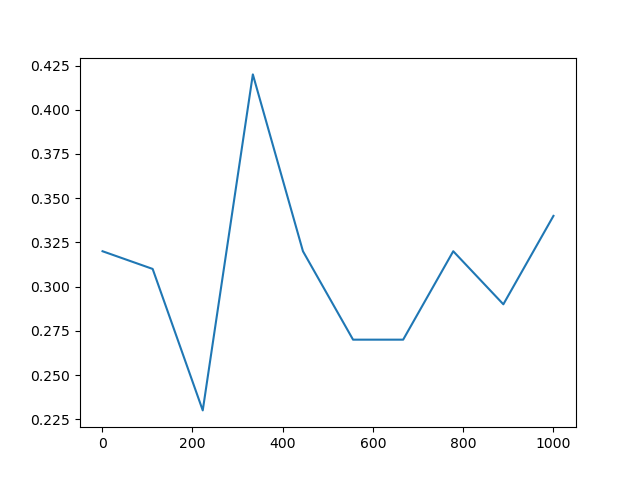
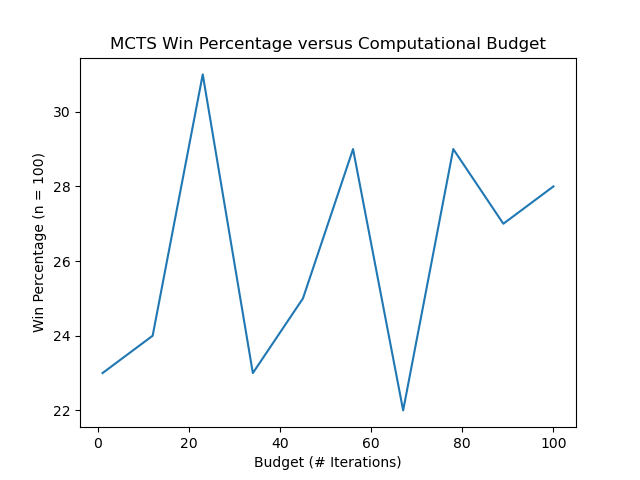
Creating sarsa implementation

diff --git a/SarsaMCTS.py b/SarsaMCTS.py
@@ -1,0 +1,161 @@
+import numpy as np
+# from MCTSNode import MCTSNode
+from SarsaNode import SarsaNode
+from games.Game import Game
+from games.Player import Player
+from collections import deque
+from policies.Policy import Policy
+from utils import Outcome
+import random 
+
+"""
+file: SarsaMCTS.py
+Author: Michael D. Nath
+
+SarsaMCTS is a TD-powered variant of the Monte Carlo Tree Seach algorithm.
+In this variant, we leverage the SARSA TD method with eligibility traces.
+The algorithim below is a high-fidelity implementation of Sarsa-UCT(\lambda) 
+as described by Vodopivec et. al. in "On Monte Carlo Tree Search and Reinforcement Learning".
+"""
+
+class SarsaMCTS(Player):
+    def __init__(self, game: Game, mark, opponent_mark, playout_policy: Policy, exploration_constant=1):
+        """
+        Initializes the Sarsa MCTS algorithm with a game for it to play.
+
+        Args:
+        game (Game): The `Game` object that the MCTS agent interfaces with.
+        mark (int): The int representation of the mark the MCTS agent can use to make moves.
+        opponent_mark (int): The int representation of the mark the opponent can use to make moves.
+        playout_policy: (Policy): The policy that the MCTS agent will follow when at a new state.
+        """
+
+        self.game_obj = game
+        init_state = game.get_init_game_state()
+        # We begin with the initial state of the game we're playing
+        self.root = SarsaNode(init_state)
+        self.mark = mark
+        self.discount_factor = 1
+        self.alpha = 0.01
+        self.trace_decay = 1
+        self.opponent_mark = opponent_mark
+        self.playout_policy = playout_policy
+        self.exploration_constant = exploration_constant
+
+        # Maintain an "experience" of previously played game trees. Equivalent to MCTS "learning".
+        self.memory: dict[str: SarsaNode] = dict()
+
+    
+    
+    def ucb1_tree_policy_(self, game_state: SarsaNode) -> np.ndarray:
+        best_a = None
+        best_ucb = -np.inf
+        actions = game_state.game_obj.get_all_next_actions()
+        for a_i in actions:
+           if game_state.children_states.get(a_i, None) != None:
+               child = game_state.children_states[a_i]
+               exploitation_value = child.get_value()
+               exploration_value = self.exploration_constant \
+                   * np.sqrt(2 * np.log(game_state.n_visited) / np.log(child.n_visited))
+               ucb_value = exploitation_value + exploration_value
+               if ucb_value >= best_ucb:
+                   best_ucb = ucb_value
+                   best_a = a_i
+        return best_a
+    
+    def generate_episode_(self, root_state: SarsaNode):
+        episode = []
+        s = root_state
+        while (not self.game_obj.is_terminal_state(s.game_obj)):
+            if self.memory.get(s, None) != None:
+                a = self.ucb1_tree_policy_(s) 
+            else:
+                a = self.playout_policy.select_action(s.game_obj.state)
+            sp = self.game_obj.get_next_game_state(a, self.mark)
+            is_terminal, winner = self.game_obj.is_terminal_state(sp.game_ob)
+            if is_terminal:
+                if winner == self.mark:
+                    r = 1
+                elif winner == self.opponent_mark:
+                    r = -1
+            else:
+                r = 0
+            s = sp
+            episode.append((s, r))
+        
+    
+    def create_children_for_node(self, node: SarsaNode):
+        # get all possible next states
+        possible_next_states, input_actions = \
+        self.game_obj.get_next_game_states(self.mark)
+        node.add_children(possible_next_states, input_actions) 
+    
+    def backpropagate_outcome(self, outcome: Outcome):
+        # for each node in the path from root to non-terminal leaf, update its stored statistics.
+        for node in self.path:
+            node.update_stats(outcome) 
+    
+    def step(self):
+        '''
+        This is equivalent to a human player `thinking` about what move to make,
+        given their opponent's most recent move. Here, the core assumption is that
+        this is called right after an opponent has made a move. 
+        '''
+       
+        # Edge case: if current game state is already deciding, no point in planning.
+        if self.game_obj.is_terminal_state(self.game_obj)[0]:
+            return 
+        
+        # We begin planning by examining the current state of the game. 
+        stringified_current_game_state = np.array2string(self.game_obj.get_current_game_state())
+        self.root = self.memory.get(stringified_current_game_state, None)
+        if self.root is None:
+            self.root = self.memory[stringified_current_game_state] = \
+            SarsaNode(self.game_obj, None, is_opponent=True)
+        episode = self.generate_episode_(self.root)
+        
+        
+        
+        
+        
+        
+        self.perform_lookahead(self.root)
+        # At this point, self.path should be populated with a carve-out of game tree.
+        leaf_node = self.path[-1]
+        # We will construct the next game state from the terminal game state
+        # determine if root is terminal (game state is deciding)
+        is_terminal, winner = self.game_obj.is_terminal_state(leaf_node.game_obj)
+        if is_terminal:
+            return
+        else:
+            self.create_children_for_node(leaf_node)
+            playout_node = self.determine_playout_node(leaf_node)
+            # Include this playout node as an additional target of backpropagation.
+            self.path.append(playout_node)
+            # Now we perform a playout from this playout node, backpropagating after playout completion.
+            outcome = self.perform_playout(playout_node)
+        # Update internal statistics of all nodes in carved out path.
+        self.backpropagate_outcome(outcome)
+    
+    def make_move(self):
+        # Perform a one-step lookahead and greedily choose the move to take.
+        max_value = 0
+        best_child = None
+        for child in self.root.children_states:
+            if (child.get_value() >= max_value):
+                max_value = child.get_value()
+                best_child = child
+        return best_child.input_action
+              
+    def internal_print_game_tree_(self, root: MCTSNode):
+        if self.game_obj.is_terminal_state(root.game_obj)[0]:
+            return
+        print(root)
+        for child in root.children_states:
+            self.internal_print_game_tree_(child)
+        
+    def print_game_tree(self):
+        self.internal_print_game_tree_(self.root)    
+        
+    def __str__(self):
+        return self.root.__str__()

diff --git a/games/tictactoe/TicTacToe.py b/games/tictactoe/TicTacToe.py
@@ -47,22 +47,31 @@ class TicTacToeBoard(Game):
     def get_current_game_state(self) -> np.ndarray:
         return self.board
     
+    def get_next_game_state(self, action, mark):
+        '''
+        Returns the next game state (s') from the current state (s) after taking
+        `action`, and marked with `mark`
+        '''
+        new_state = self.board.copy()
+        new_state[tuple(action)] = mark
+        return TicTacToeBoard(new_state)
+    
     def get_next_game_states(self, mark):
         '''
         Returns all reachable game states from given state, and marked with `mark`
         '''
         pos_next_states = []
-        input_actions = []
-        for i in range(GRID_ROWS):
-            for j in range(GRID_COLS):
-                if self.board[i,j] == NO_MARK_INDICATOR:
-                    new_state = self.board.copy()
-                    new_state[i,j] = mark
-                    new_board_obj = TicTacToeBoard(new_state)
-                    pos_next_states.append(new_board_obj)
-                    input_actions.append([i,j])
+        input_actions = self.get_all_next_actions()
+        for action in input_actions:
+            new_board_obj = self.get_next_game_state(action, mark)
+            pos_next_states.append(new_board_obj)
+            input_actions.append(action)
         return pos_next_states, input_actions
-        
+    
+    def get_all_next_actions(self):
+        pos_indices = np.where(self.board == NO_MARK_INDICATOR)
+        return np.array(list(zip(pos_indices))).reshape(-1, 2)
+     
     @staticmethod
     def is_terminal_state(game_obj: Game): 
         for i in range(GRID_ROWS):

diff --git a/SarsaNode.py b/SarsaNode.py
@@ -3,18 +3,18 @@ import numpy as np
 from utils import Outcome
 from games.Game import Game
 
-class MCTSNode:
+class SarsaNode:
     def __init__(self, game_state: Game, input_action = None, is_opponent=False):
         self.game_obj: Game = game_state
         self.n_won = 0
         self.n_visited = 1
         self.input_action = input_action
         self.is_opponent_turn = is_opponent
-        self.children_states: set[MCTSNode] = set()
+        self.children_states: dict[Tuple[int, int]: SarsaNode]
 
     def add_child(self, game_obj, input_action):
-        new_child = MCTSNode(game_obj, input_action=input_action, is_opponent=(not self.is_opponent_turn))
-        self.children_states.add(new_child)
+        new_child = SarsaNode(game_obj, input_action=input_action, is_opponent=(not self.is_opponent_turn))
+        self.children_states[input_action] = new_child
     
     def add_children(self, game_objs, input_actions):
         for idx, child in enumerate(game_objs):

diff --git a/tests.py b/tests.py
@@ -7,7 +7,7 @@ import matplotlib.pyplot as plt
 
 MCTS_INDICATOR = 1
 OPP_INDICATOR = 0
-N_TRIALS = 10
+N_TRIALS = 100
 
 def simulate(
     manual_play=False, 
@@ -86,8 +86,11 @@ def vary_num_tree_iterations(n_max_tree_iters):
     mcts_wins = np.array([])
     for n_tree_iters in n_iterations_set:
         mcts_wins = np.append(mcts_wins, run_experiments(n_tree_iters=n_tree_iters))
-    plt.plot(n_iterations_set, mcts_wins / 100)
+    plt.title("MCTS Win Percentage versus Computational Budget")
+    plt.xlabel("Budget (# Iterations)")
+    plt.ylabel(f"Win Percentage (n = {N_TRIALS})")
+    plt.plot(n_iterations_set, mcts_wins * 100 / N_TRIALS)
     plt.savefig("plots/n_tree_iters.png")
 
 if __name__ == "__main__":
-    vary_num_tree_iterations(10000)
+    vary_num_tree_iterations(100)

diff --git a/games/Game.py b/games/Game.py
@@ -51,6 +51,12 @@ class Game:
     
     def get_next_game_states(self, state, mark):
         raise NotImplementedError
+    
+    def get_next_game_state(self, action, mark):
+        raise NotImplementedError
+    
+    def get_all_next_actions(self):
+        raise NotImplementedError
     def get_current_game_state(self):
         raise NotImplementedError
 
